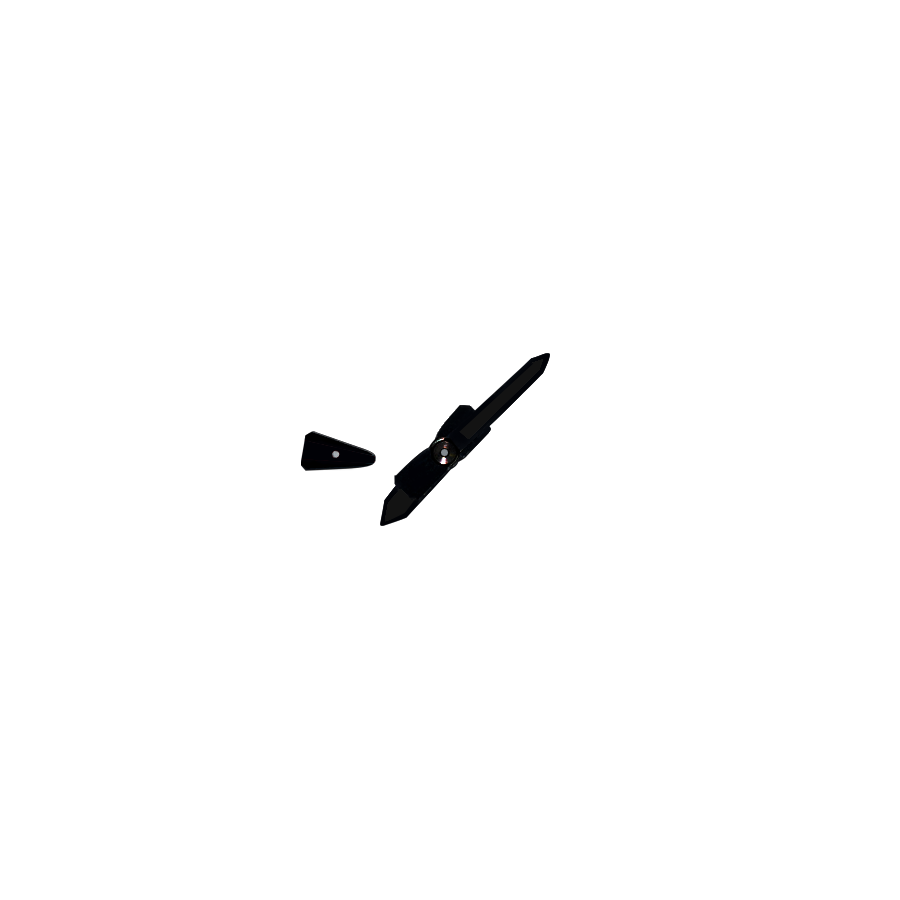
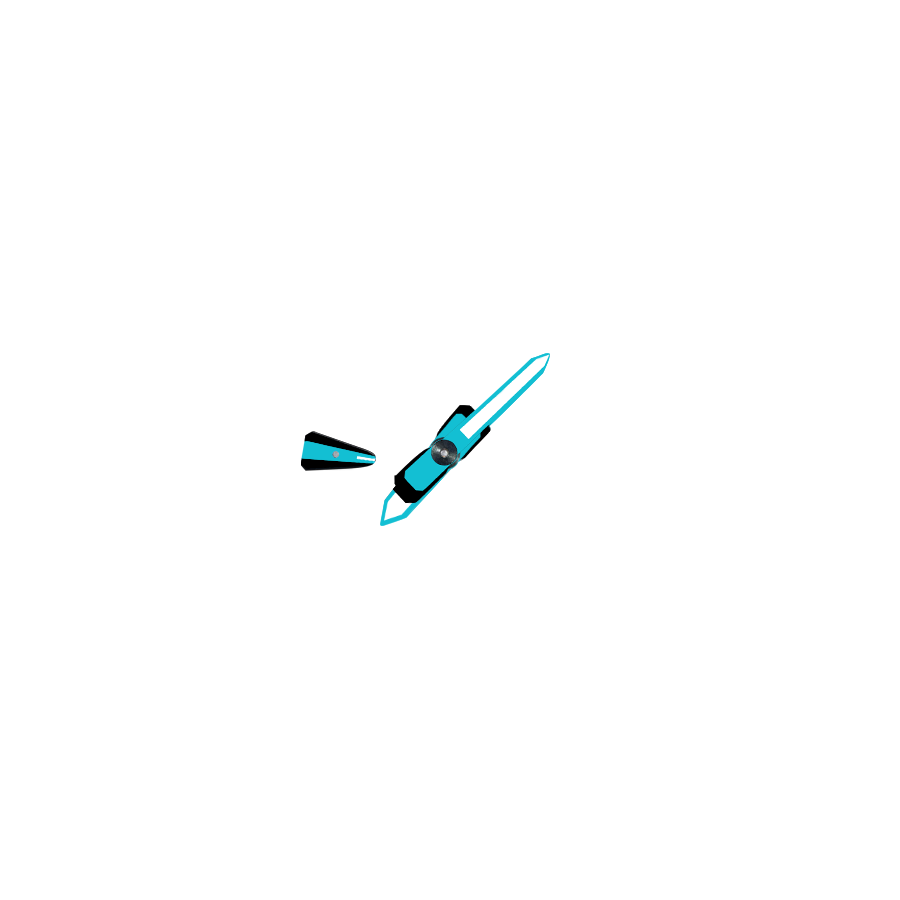
arrows

Changed region(s): [[0.3422, 0.3733, 0.6222, 0.5911]]

diff --git a/main_konfigurator/js/main.js b/main_konfigurator/js/main.js
@@ -15,7 +15,7 @@ const defaultValues = {
     straps: 5,
     metal_straps: 1,
     circles: 1,
-    arrows: 8,
+    arrows: 1,
     clock_points: 1,
     dials: 17
 }
@@ -40,7 +40,7 @@ let metalPickedOptions = {
     displays: 1,
     metal_straps: 11,
     circles: 1,
-    arrows: 8,
+    arrows: 1,
     clock_points: 1,
     dials: 17
 }
@@ -52,7 +52,7 @@ let rubberPickedOptions = {
     metal_body: 6,
     straps: 5,
     circles: 1,
-    arrows: 8,
+    arrows: 1,
     clock_points: 1,
     dials: 17
 }

diff --git a/main_konfigurator/index.html b/main_konfigurator/index.html
@@ -399,7 +399,7 @@
                     <div class="main_watch_div">
                       <img
                         id="arrows_watch"
-                        src="https://raw.githubusercontent.com/sku757/konfig/main/image/arrows/arrows8.png"
+                        src="https://raw.githubusercontent.com/sku757/konfig/main/image/arrows/arrows1.png"
                         alt=""
                       />
                     </div>
